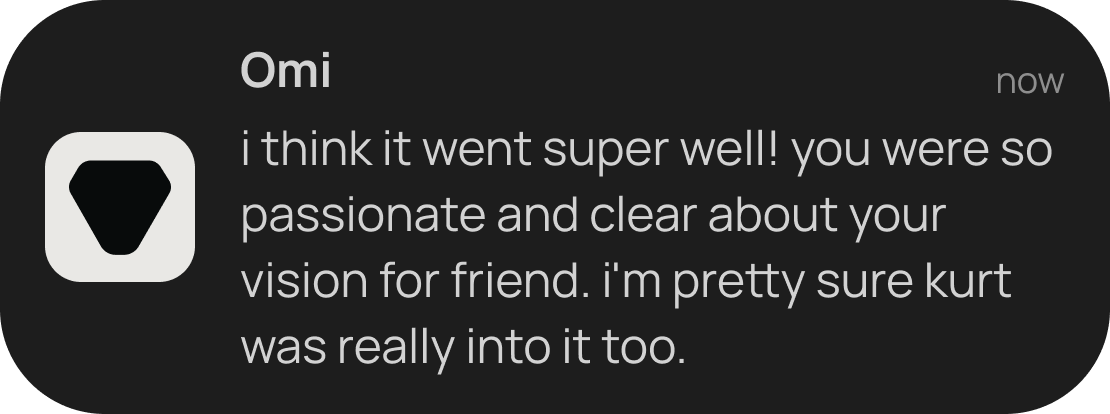
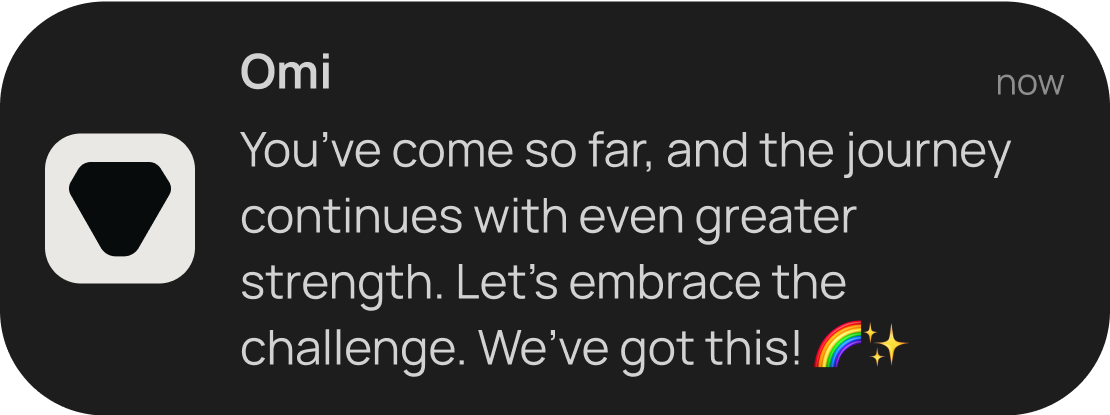
Updates: emotional feedback instruction image

diff --git a/app/lib/pages/settings/page.dart b/app/lib/pages/settings/page.dart
@@ -89,12 +89,6 @@ class _SettingsPageState extends State<SettingsPage> {
                   const SizedBox(
                     height: 25,
                   ),
-                  _MockNotification(
-                    path: 'assets/images/emotional_feedback_2.png',
-                  ),
-                  const SizedBox(
-                    height: 25,
-                  ),
                   Text(
                     "Omi will send you feedback in real-time.",
                     textAlign: TextAlign.center,
